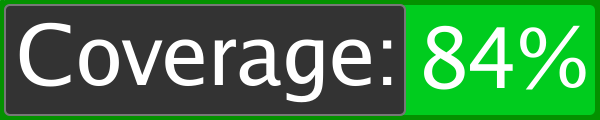
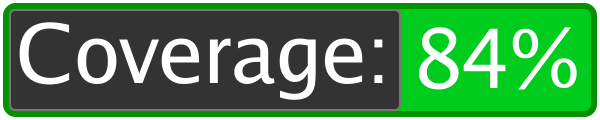
Rounded out badge corners.

diff --git a/badge.go b/badge.go
@@ -37,15 +37,15 @@ func drawBadge(coveragePct float64, filename string) error {
 	dc := gg.NewContext(600, 120)
 
 	//Draw background rectangle
-	dc.DrawRoundedRectangle(0, 0, 600, 120, 10)
+	dc.DrawRoundedRectangle(6, 6, 600-6*2, 120-6*2, 10)
 	dc.SetHexColor(accentColor)
 	dc.FillPreserve()
 	dc.SetHexColor(accentBorderColor)
-	dc.SetLineWidth(10.0)
+	dc.SetLineWidth(6.0)
 	dc.Stroke()
 
 	//Draw coverage background rectangle
-	dc.DrawRoundedRectangle(5, 5, 410-5*2, 120-5*2, 5)
+	dc.DrawRoundedRectangle(10, 10, 410-10*2, 120-10*2, 5)
 	dc.SetHexColor(colorDarkGrey)
 	dc.FillPreserve()
 	dc.SetHexColor(colorGrey)
@@ -53,12 +53,12 @@ func drawBadge(coveragePct float64, filename string) error {
 	dc.Stroke()
 
 	//Drawing text
-	err := dc.LoadFontFace("fonts/luxisr.ttf", 84)
+	err := dc.LoadFontFace("fonts/luxisr.ttf", 82)
 	errCheck("Loading font", err)
 	dc.SetHexColor("#ffffffff")
-	dc.DrawString("Coverage:", 5+10, 120-5*2-25)
+	dc.DrawString("Coverage:", 5+10, 120-5*2-27.5)
 	covPctString := fmt.Sprintf("%2.f", coveragePct) + "%"
-	dc.DrawString(covPctString, 410+10, 120-5*2-22)
+	dc.DrawString(covPctString, 410+5, 120-5*2-22)
 	//Save to file
 	err = dc.SavePNG(filename)
 	errCheck("Saving image file", err)

diff --git a/main_test.go b/main_test.go
@@ -9,9 +9,9 @@ func TestGetCommandOutput(t *testing.T) {
 
 func TestDrawBadge(t *testing.T) {
 	drawBadge(22.7, "test_badge.png")
-	drawBadge(66, "test_badge.png")
 	drawBadge(88, "test_badge.png")
-	if drawBadge(88, "bad_folder/test_badge.png") == nil {
+	drawBadge(66, "test_badge.png")
+	if drawBadge(66, "bad_folder/test_badge.png") == nil {
 		t.Error("Should respond with error when saving to invalid folder")
 	}
 	if drawBadge(-34, "test_badge.png") == nil {
